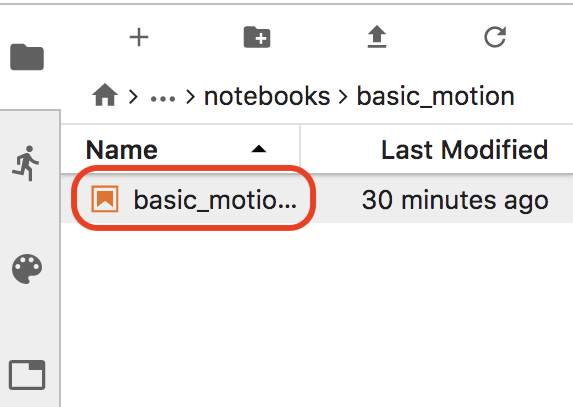
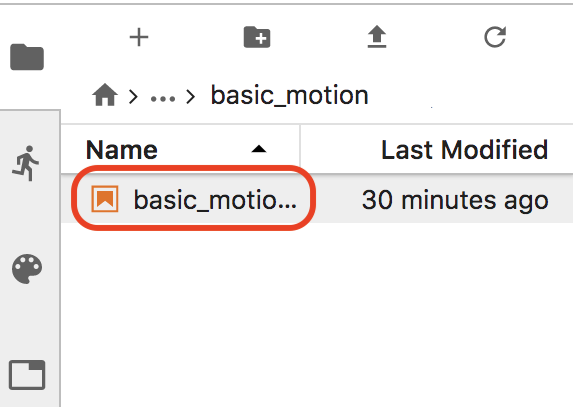
Deployed  with MkDocs version: 1.0.4

Changed region(s): [[0.356, 0.2064, 0.9197, 0.2654]]

diff --git a/04.動作確認/01.test/index.html b/04.動作確認/01.test/index.html
@@ -584,7 +584,7 @@
 <p>Jupyterのpasswordは<code>jetbot</code>です。</p>
 </div>
 <h2 id="jetbot_1">JetBotの動作確認</h2>
-<p><code>/Notebooks/notebooks/basic_motion/basic_motion.ipynb</code> を開きます。</p>
+<p><code>/Notebooks/basic_motion/basic_motion.ipynb</code> を開きます。</p>
 <p><img alt="" src="../img/test01.png" /></p>
 <p><img alt="" src="../img/test02.png" /></p>
 <p><img alt="" src="../img/test03.png" /></p>
